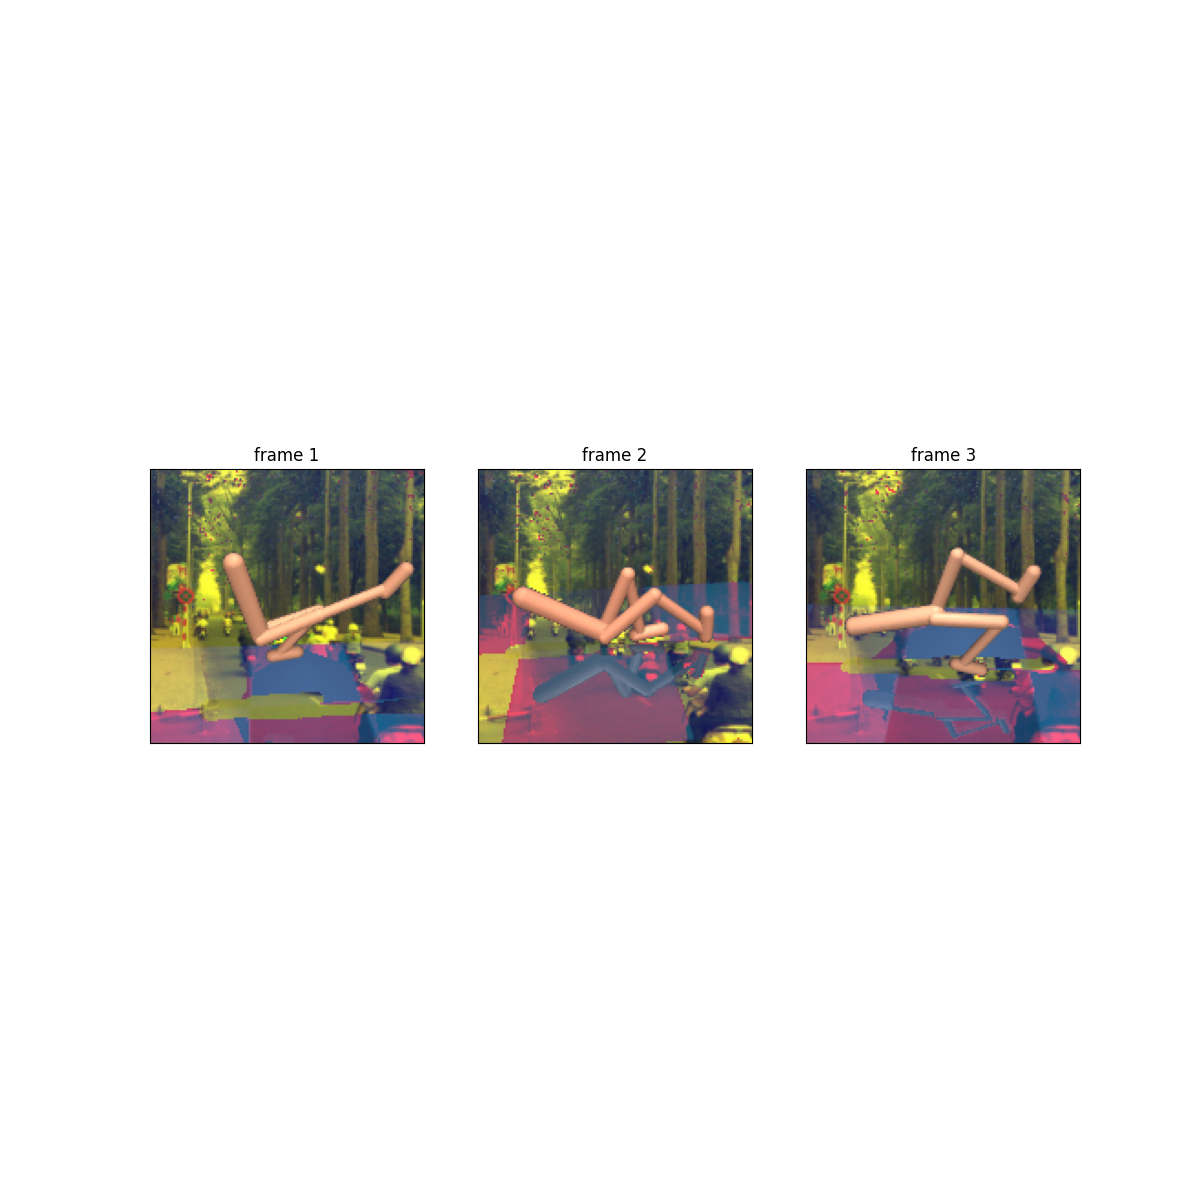
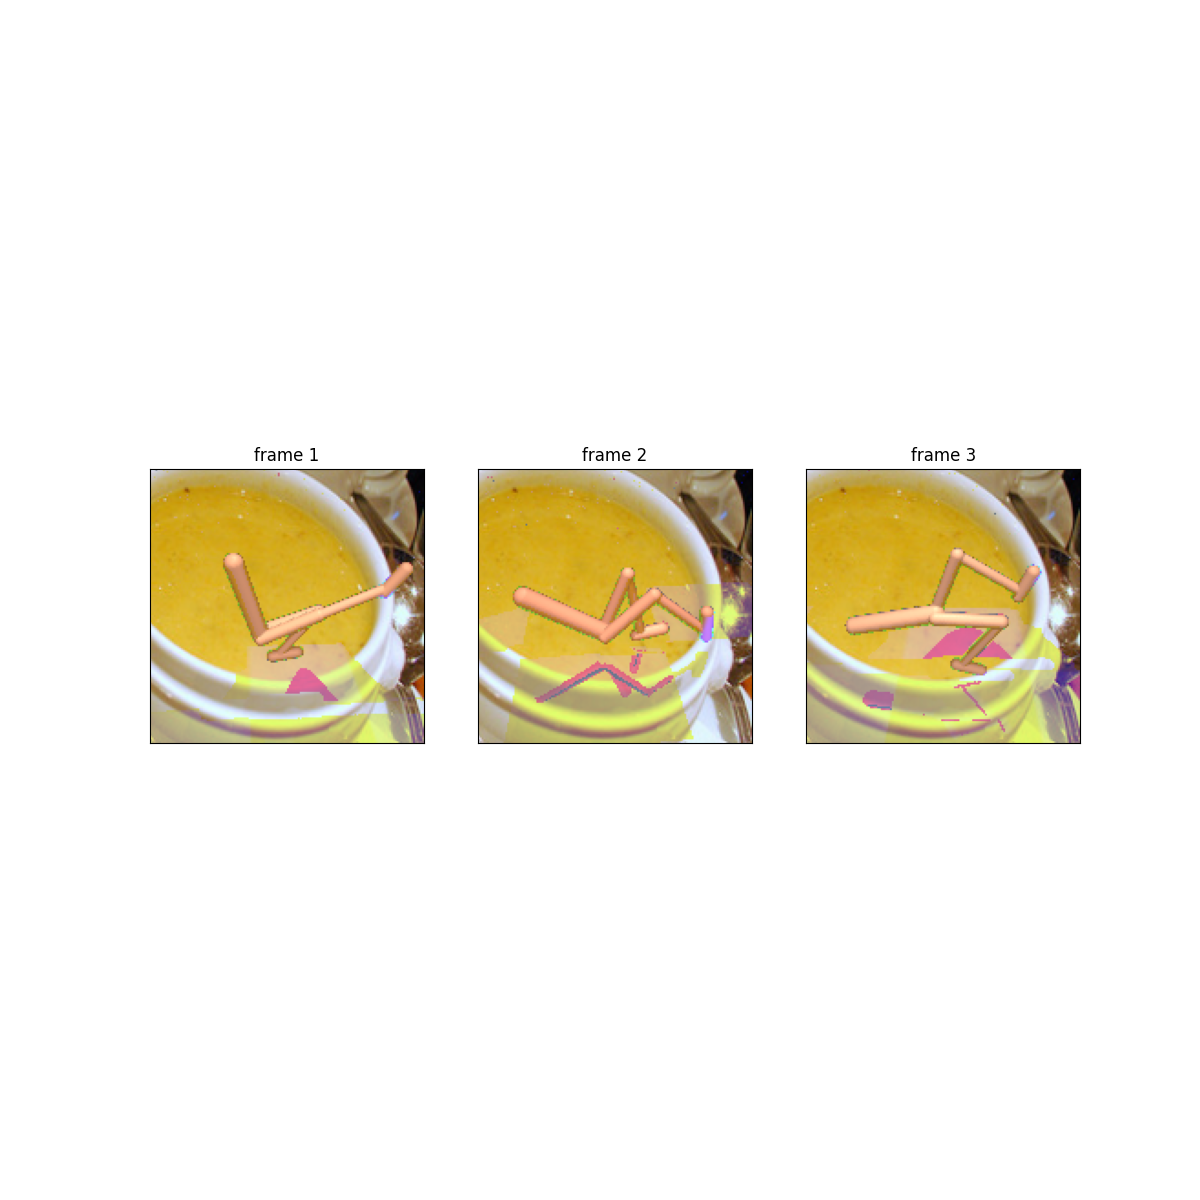
added thesholded overlay

Changed region(s): [[0.4008, 0.37, 0.925, 0.6167], [0.1233, 0.37, 0.37, 0.6167]]

diff --git a/src/augmentations.py b/src/augmentations.py
@@ -264,16 +264,16 @@ def random_conv(x):
     return total_out.reshape(n, c, h, w)
 
 
-def thresholded_overlay(x):
+def thresholded_overlay(x, R_threshold=0.4, G_threshold=1, B_threshold=1):
     global data_iter
     load_dataloader(batch_size=x.size(0), image_size=x.size(-1))
     overlay = _get_data_batch(x.size(0)).repeat(x.size(1) // 3, 1, 1, 1)
     n, c, h, w = x.shape
     x_rgb = x.reshape(-1, 3, h, w) / 255.0
     weight = torch.ones(x_rgb.shape)
-    weight[:, 0] = weight[:, 0] * 0.25
-    weight[:, 1] = weight[:, 0] * 1
-    weight[:, 2] = weight[:, 0] * 0.5
+    weight[:, 0] = weight[:, 0] * R_threshold
+    weight[:, 1] = weight[:, 0] * G_threshold
+    weight[:, 2] = weight[:, 0] * B_threshold
     mask = x_rgb > weight.to(x.get_device())
     out = (mask * x_rgb + (~mask) * overlay) * 255.0
     return out.reshape(n, c, h, w)
